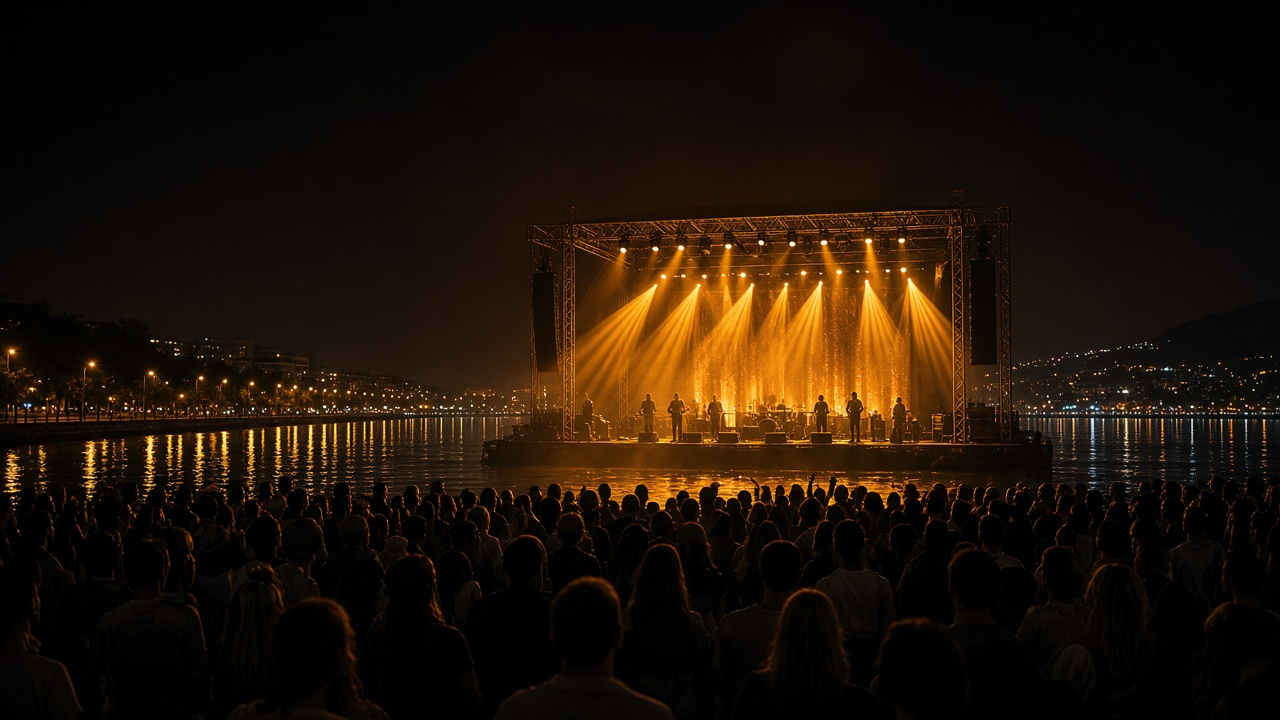
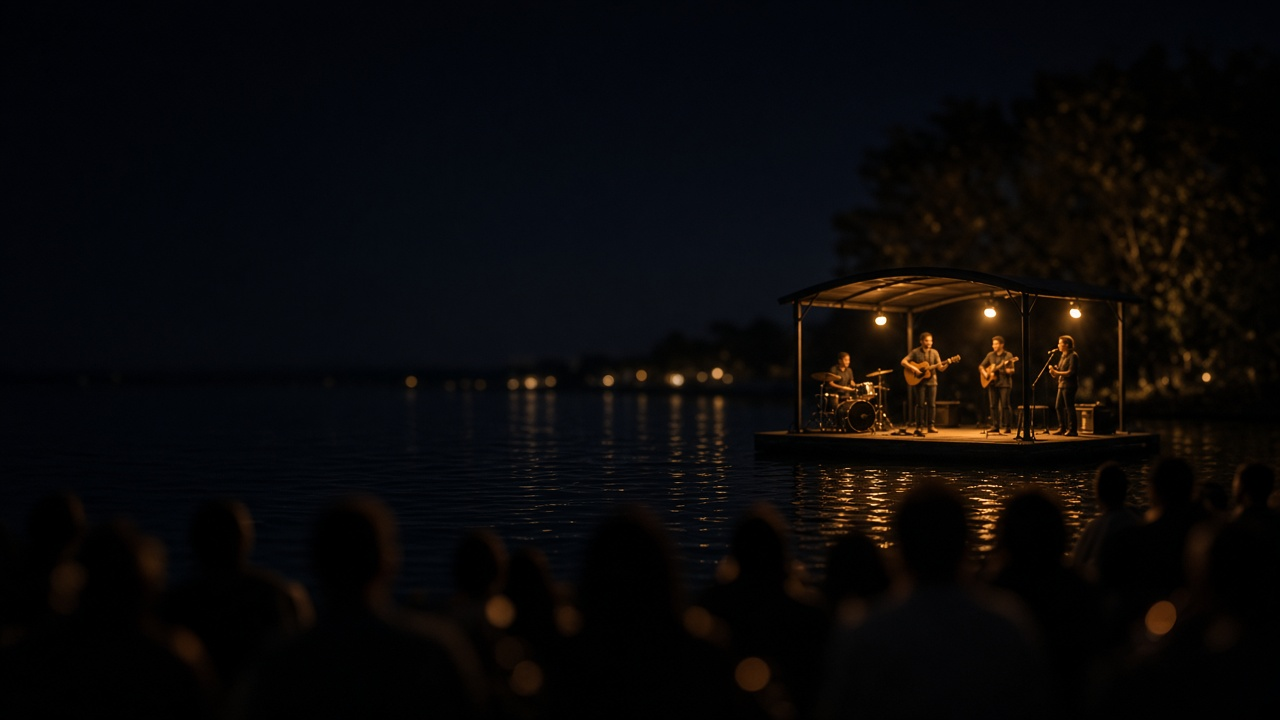
Replace the hero photo and show a confirmation card after the ticket form.

diff --git a/index.html b/index.html
@@ -7,7 +7,7 @@
   <meta name="description" content="Билеты на ночной фестиваль «Город не спит»: 14 ноября, Симферополь, три сцены. Стандарт 2 500 ₽, VIP 6 900 ₽, стол на 4 человека 24 000 ₽. Свободно 86 мест.">
   <meta name="robots" content="noindex, follow">
   <link rel="canonical" href="https://damn-sky.github.io/events-landing/">
-  <link rel="stylesheet" href="styles.css?v=4">
+  <link rel="stylesheet" href="styles.css?v=5">
   <script type="application/ld+json">
   {
     "@context": "https://schema.org",
@@ -49,7 +49,7 @@
 
   <main id="top">
     <section class="hero">
-      <img class="hero-photo" src="img/hero.jpg" width="1600" height="900" alt="Ночная сцена фестиваля «Город не спит»">
+      <img class="hero-photo" src="img/hero.jpg?v=5" width="1600" height="900" alt="Ночная сцена фестиваля «Город не спит» у воды">
       <div class="hero-copy">
         <p class="eyebrow">14 ноября 2026 · Симферополь · вход с 20:30</p>
         <h1>Билеты на ночной фестиваль «Город не спит»</h1>
@@ -172,8 +172,12 @@
           </select>
         </label>
         <button class="btn" type="submit">Отправить заявку</button>
-        <p id="form-note" class="form-note" role="status" hidden></p>
       </form>
+      <div id="form-note" class="form-note" role="status" hidden>
+        <p class="form-note-mark">Заявка принята</p>
+        <p id="form-note-text"></p>
+        <p class="form-note-hint">Это демо: оплата не списывается, данные никуда не уходят.</p>
+      </div>
     </section>
   </main>
 
@@ -195,6 +199,6 @@
     </div>
   </footer>
   <a class="mobile-cta" href="#tickets">Выбрать билет</a>
-  <script src="main.js?v=4"></script>
+  <script src="main.js?v=5"></script>
 </body>
 </html>

diff --git a/main.js b/main.js
@@ -1,6 +1,7 @@
 const form = document.querySelector("#ticket-form");
 const pack = document.querySelector("#pack");
 const note = document.querySelector("#form-note");
+const noteText = document.querySelector("#form-note-text");
 const menuBtn = document.querySelector(".menu-btn");
 const nav = document.querySelector("#site-nav");
 
@@ -29,7 +30,7 @@ form.addEventListener("submit", (event) => {
     return;
   }
   const data = new FormData(form);
+  noteText.textContent = data.get("name") + ", пакет «" + data.get("pack") + "».";
   note.hidden = false;
-  note.textContent = "Демо-заявка: " + data.get("name") + ", «" + data.get("pack") + "». Оплата не списывается.";
-  form.reset();
+  form.classList.add("is-sent");
 });

diff --git a/styles.css b/styles.css
@@ -165,7 +165,23 @@ input, select {
   font: inherit;
 }
 input:invalid:not(:placeholder-shown) { border-color: var(--danger); }
-.form-note { color: var(--gold); }
+.form-note {
+  max-width: 440px;
+  margin-top: 8px;
+  padding: 22px 22px 18px;
+  border-radius: 18px;
+  border: 1px solid var(--gold);
+  background: #221c12;
+}
+.form-note-mark {
+  margin: 0;
+  color: var(--gold);
+  font-family: Georgia, serif;
+  font-size: 28px;
+}
+#form-note-text { margin: 8px 0 0; font-size: 18px; }
+.form-note-hint { margin: 8px 0 0; color: var(--muted); font-size: 14px; }
+form.is-sent { display: none; }
 .footer {
   display: grid;
   grid-template-columns: 1.4fr 1fr 1fr;
